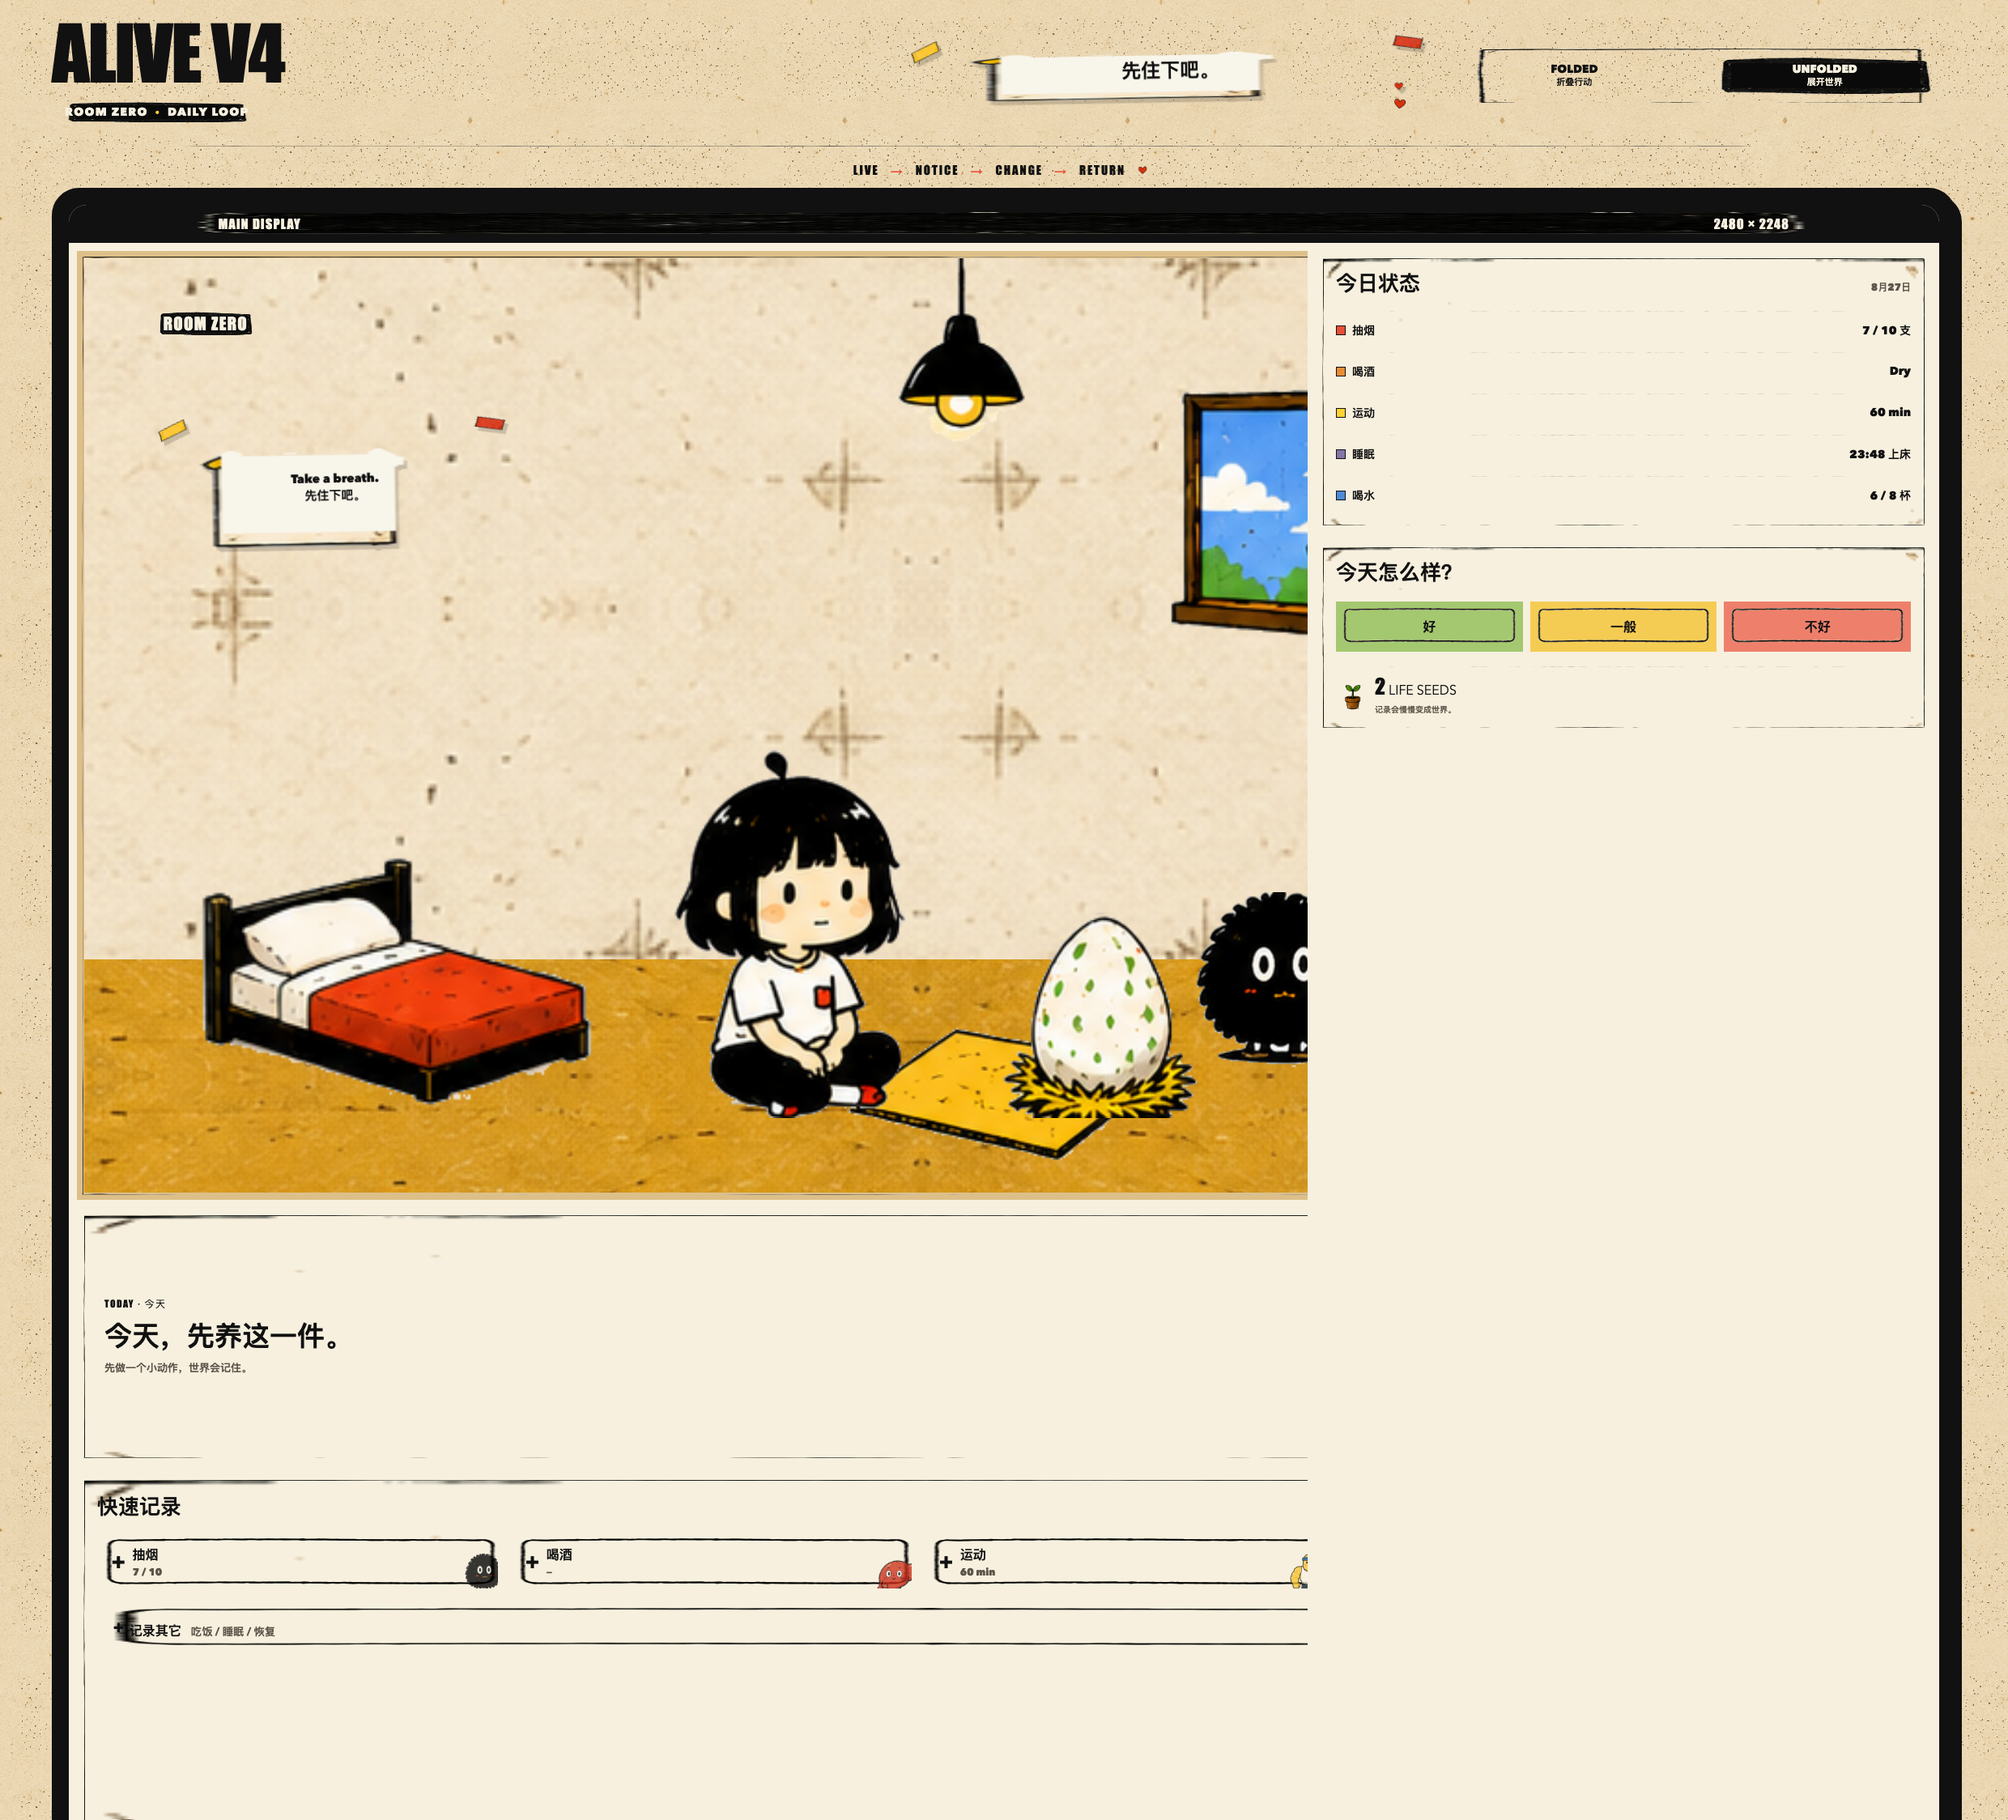
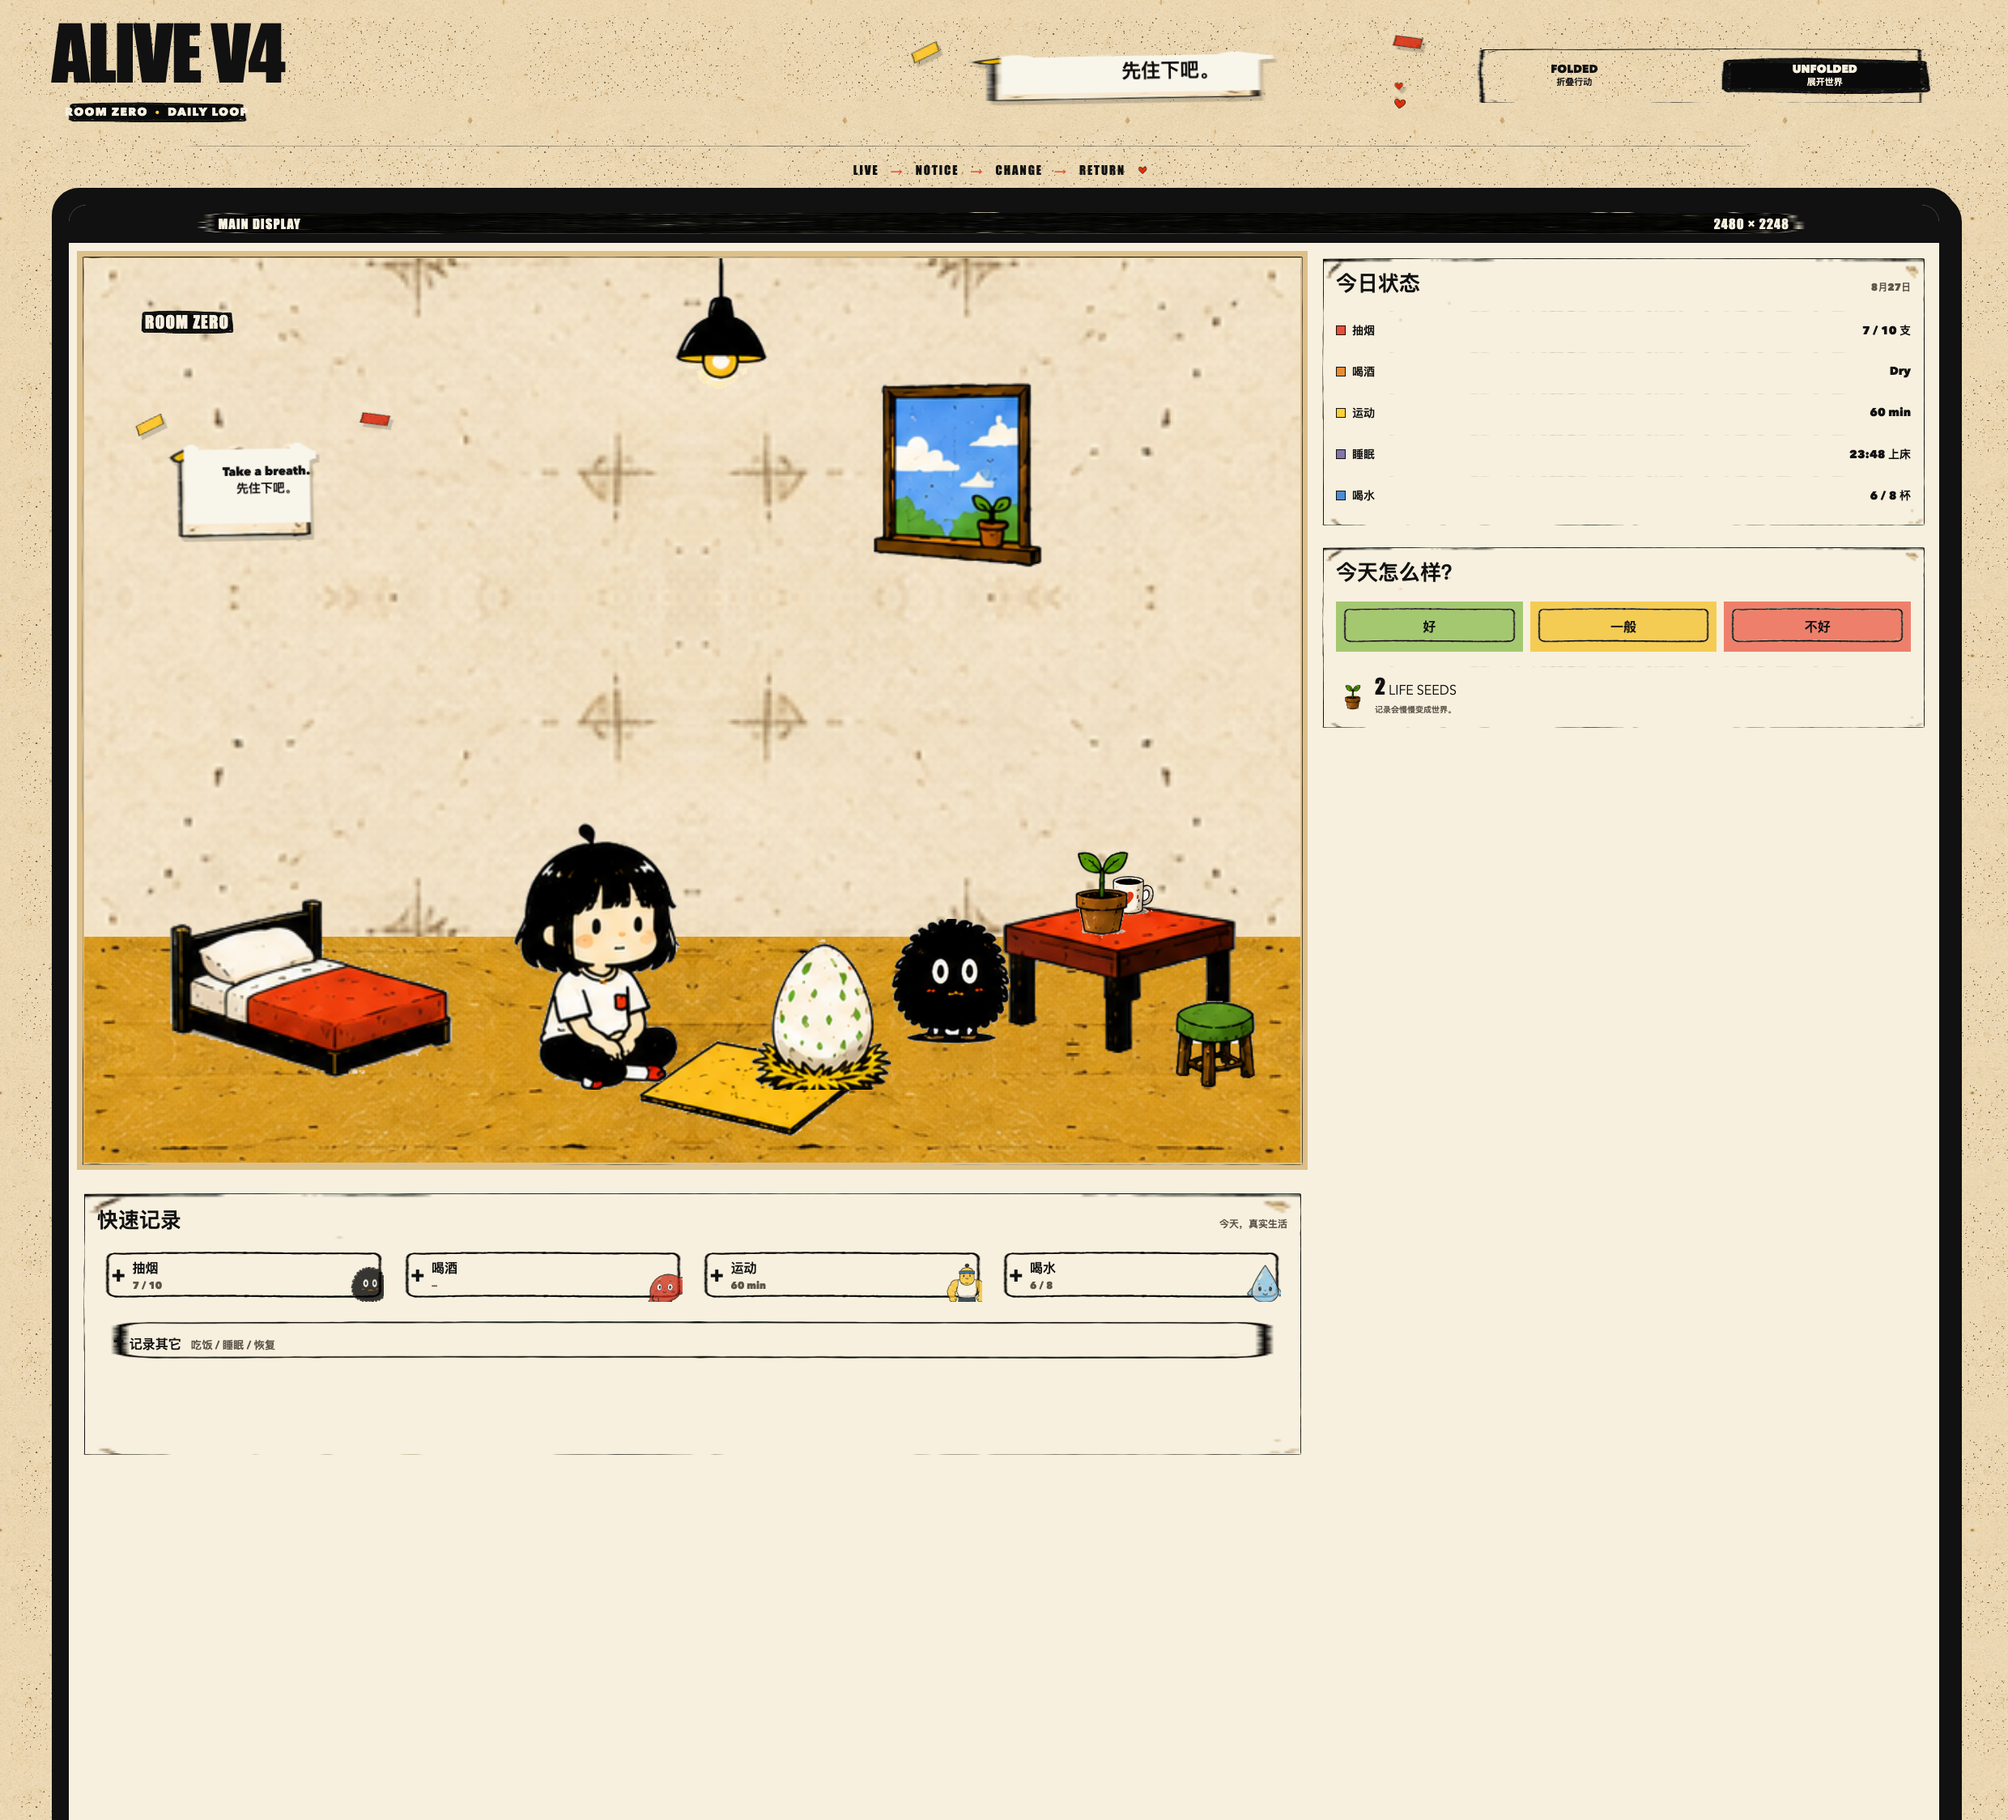
fix: match unfolded layout to display reference

diff --git a/src/styles/app.css b/src/styles/app.css
@@ -36,8 +36,10 @@ img { max-width: 100%; }
 .screen-label { display: flex; justify-content: space-between; gap: 14px; min-width: 0; padding: 14px 8%; color: var(--paper); background-color: var(--ink); background-image: url('../../public/assets/material/frame-cta-black.png'); background-size: 100% 100%; font-family: var(--font-display); font-size: clamp(11px, 1.2vw, 16px); letter-spacing: .08em; white-space: nowrap; }
 .screen-label span { min-width: 0; overflow: hidden; text-overflow: ellipsis; }
 .unfolded-display { display: grid; grid-template-columns: minmax(0, 2fr) minmax(0, 1fr); gap: 10px; min-width: 0; min-height: 0; height: 100%; padding: 10px; overflow: hidden; background: var(--paper); }
-.unfolded-main { display: grid; grid-template-rows: minmax(0, 1.15fr) minmax(112px, .32fr) minmax(170px, .44fr); gap: 0; min-width: 0; min-height: 0; width: 100%; overflow: hidden; }
-.unfolded-room, .unfolded-room .room-scene { min-height: 0; height: 100%; }
+.unfolded-main { display: flex; flex-direction: column; gap: 10px; min-width: 0; min-height: 0; width: 100%; overflow: hidden; }
+.unfolded-room { flex: 0 0 auto; min-width: 0; }
+.unfolded-room .room-scene { height: auto; aspect-ratio: 1.34; }
+.unfolded-main .quick-records { min-height: 340px; }
 .room-scene { position: relative; overflow: hidden; aspect-ratio: 1.78; border: 9px solid transparent; border-image: url('../../public/assets/material/frame-panel.png') 28 fill / 9px / 0 stretch; background: #ddbf89; }
 .room-texture { position: absolute; width: 100%; pointer-events: none; }
 .wall-texture { inset: 0 0 25%; height: 75%; object-fit: cover; }
@@ -108,7 +110,7 @@ img { max-width: 100%; }
 .footer-caption { display: flex; justify-content: space-between; gap: 20px; align-items: baseline; padding-top: 24px; font-family: var(--font-display); } .footer-caption span { font-size: 25px; } .footer-caption small { letter-spacing: .07em; }
 
 [data-mode="folded"] .unfolded-display { display: none; }
-[data-mode="folded"] .folded-display { display: grid; grid-template-rows: minmax(0, 1.75fr) minmax(0, .65fr) minmax(60px, .45fr) minmax(48px, .35fr); gap: 10px; min-height: 0; height: 100%; padding: 10px; }
+[data-mode="folded"] .folded-display { display: grid; grid-template-rows: minmax(0, 1.2fr) minmax(112px, .4fr) minmax(62px, .3fr) minmax(48px, .18fr); gap: 10px; min-height: 0; height: 100%; padding: 10px; }
 [data-mode="folded"] .folded-scene { min-height: 0; }
 [data-mode="folded"] .folded-scene .room-scene { width: 100%; height: 100%; aspect-ratio: auto; max-height: none; }
 [data-mode="folded"] .folded-scene .room-label { top: 4%; left: 7%; }
@@ -125,7 +127,7 @@ img { max-width: 100%; }
 [data-mode="folded"] .folded-scene .smoke-asset { bottom: 14%; right: 4%; width: 24%; }
 [data-mode="folded"] .focus-panel { min-height: 0; margin-top: 0; }
 [data-mode="folded"] .focus-copy p { font-size: 12px; }
-[data-mode="folded"] .focus-meter { display: none; }
+[data-mode="folded"] .focus-meter { display: block; flex-basis: 150px; }
 .primary-action, .secondary-action { width: 100%; margin-top: 0; border: 0; font-weight: 950; }
 .primary-action { display: flex; justify-content: center; align-items: center; gap: 9px; min-height: 62px; padding: 10px 16px; color: var(--paper); background-color: var(--ink); border: 8px solid transparent; border-image: url('../../public/assets/material/frame-cta-black.png') 20 fill / 8px / 0 stretch; font-size: 20px; }
 .primary-action img { width: 25px; height: 25px; object-fit: contain; }

diff --git a/src/layout/shell.js b/src/layout/shell.js
@@ -65,7 +65,7 @@ function foldedDisplay({ records, lastAction, smokeEncountered }) {
 }
 
 function unfoldedDisplay({ records, lastAction, smokeEncountered }) {
-  return `<div class="unfolded-display"><div class="unfolded-main"><div class="unfolded-room">${roomScene({ smokeEncountered })}</div>${focusPanel(records, lastAction)}${quickRecordBar(records)}</div>${statusPanel(records)}</div>`;
+  return `<div class="unfolded-display"><div class="unfolded-main"><div class="unfolded-room">${roomScene({ smokeEncountered })}</div>${quickRecordBar(records)}</div>${statusPanel(records)}</div>`;
 }
 
 function bottomNav() {

diff --git a/design-qa.md b/design-qa.md
@@ -4,7 +4,7 @@ visual review: ready for user sign-off
 
 Reference: `/Users/Jenny/Desktop/alive排版.png` plus the supplied `alive 01–05.png` and `kit1–9.png` visual kits.
 
-Captured states (ratio3):
+Captured states (ratio5):
 
 - 390×844 folded cover viewport: `outputs/qa/folded-390x844.png`
 - 1140×2616 folded cover viewport: `outputs/qa/folded-1140x2616.png`
@@ -15,10 +15,11 @@ Checks completed:
 - Handheld black bezel remains the device shell; UI panels and actions now use the supplied hand-drawn panel/button/CTA/label frames instead of straight black rectangles.
 - Paper texture and grain overlay are applied to the page shell, while the supplied wall/floor textures remain inside the Room Zero scene.
 - Unfolded mode keeps the Room Zero world in the main column, status/mood in the secondary column, quick records below, and navigation last.
+- Unfolded mode does not reuse the folded focus card; the room keeps its complete near-square composition without clipping the residents or world objects.
 - Folded mode keeps the action order: room → today's focus → primary action → other records → navigation.
 - Real Room Zero furniture, characters, world objects, UI paper/tape, frame assets, and textures are loaded from the copied asset library.
 - Entry points and asset references are repository-relative so a GitHub Pages project URL can load the app on mobile.
-- Screen aspect-ratio constraints are explicit in CSS and covered by automated tests: unfolded `2480 / 2248`, folded `1140 / 2616`.
+- Screen aspect-ratio constraints are explicit in CSS and covered by automated tests: unfolded `2480 / 2248`, folded `1140 / 2616`; folded internal rows keep the room short enough for the full daily loop.
 - Mode switching and the five first-stage record actions are interactive; state remains intentionally in memory until the persistence phase.
 - Automated tests: 5/5 passed.
 
